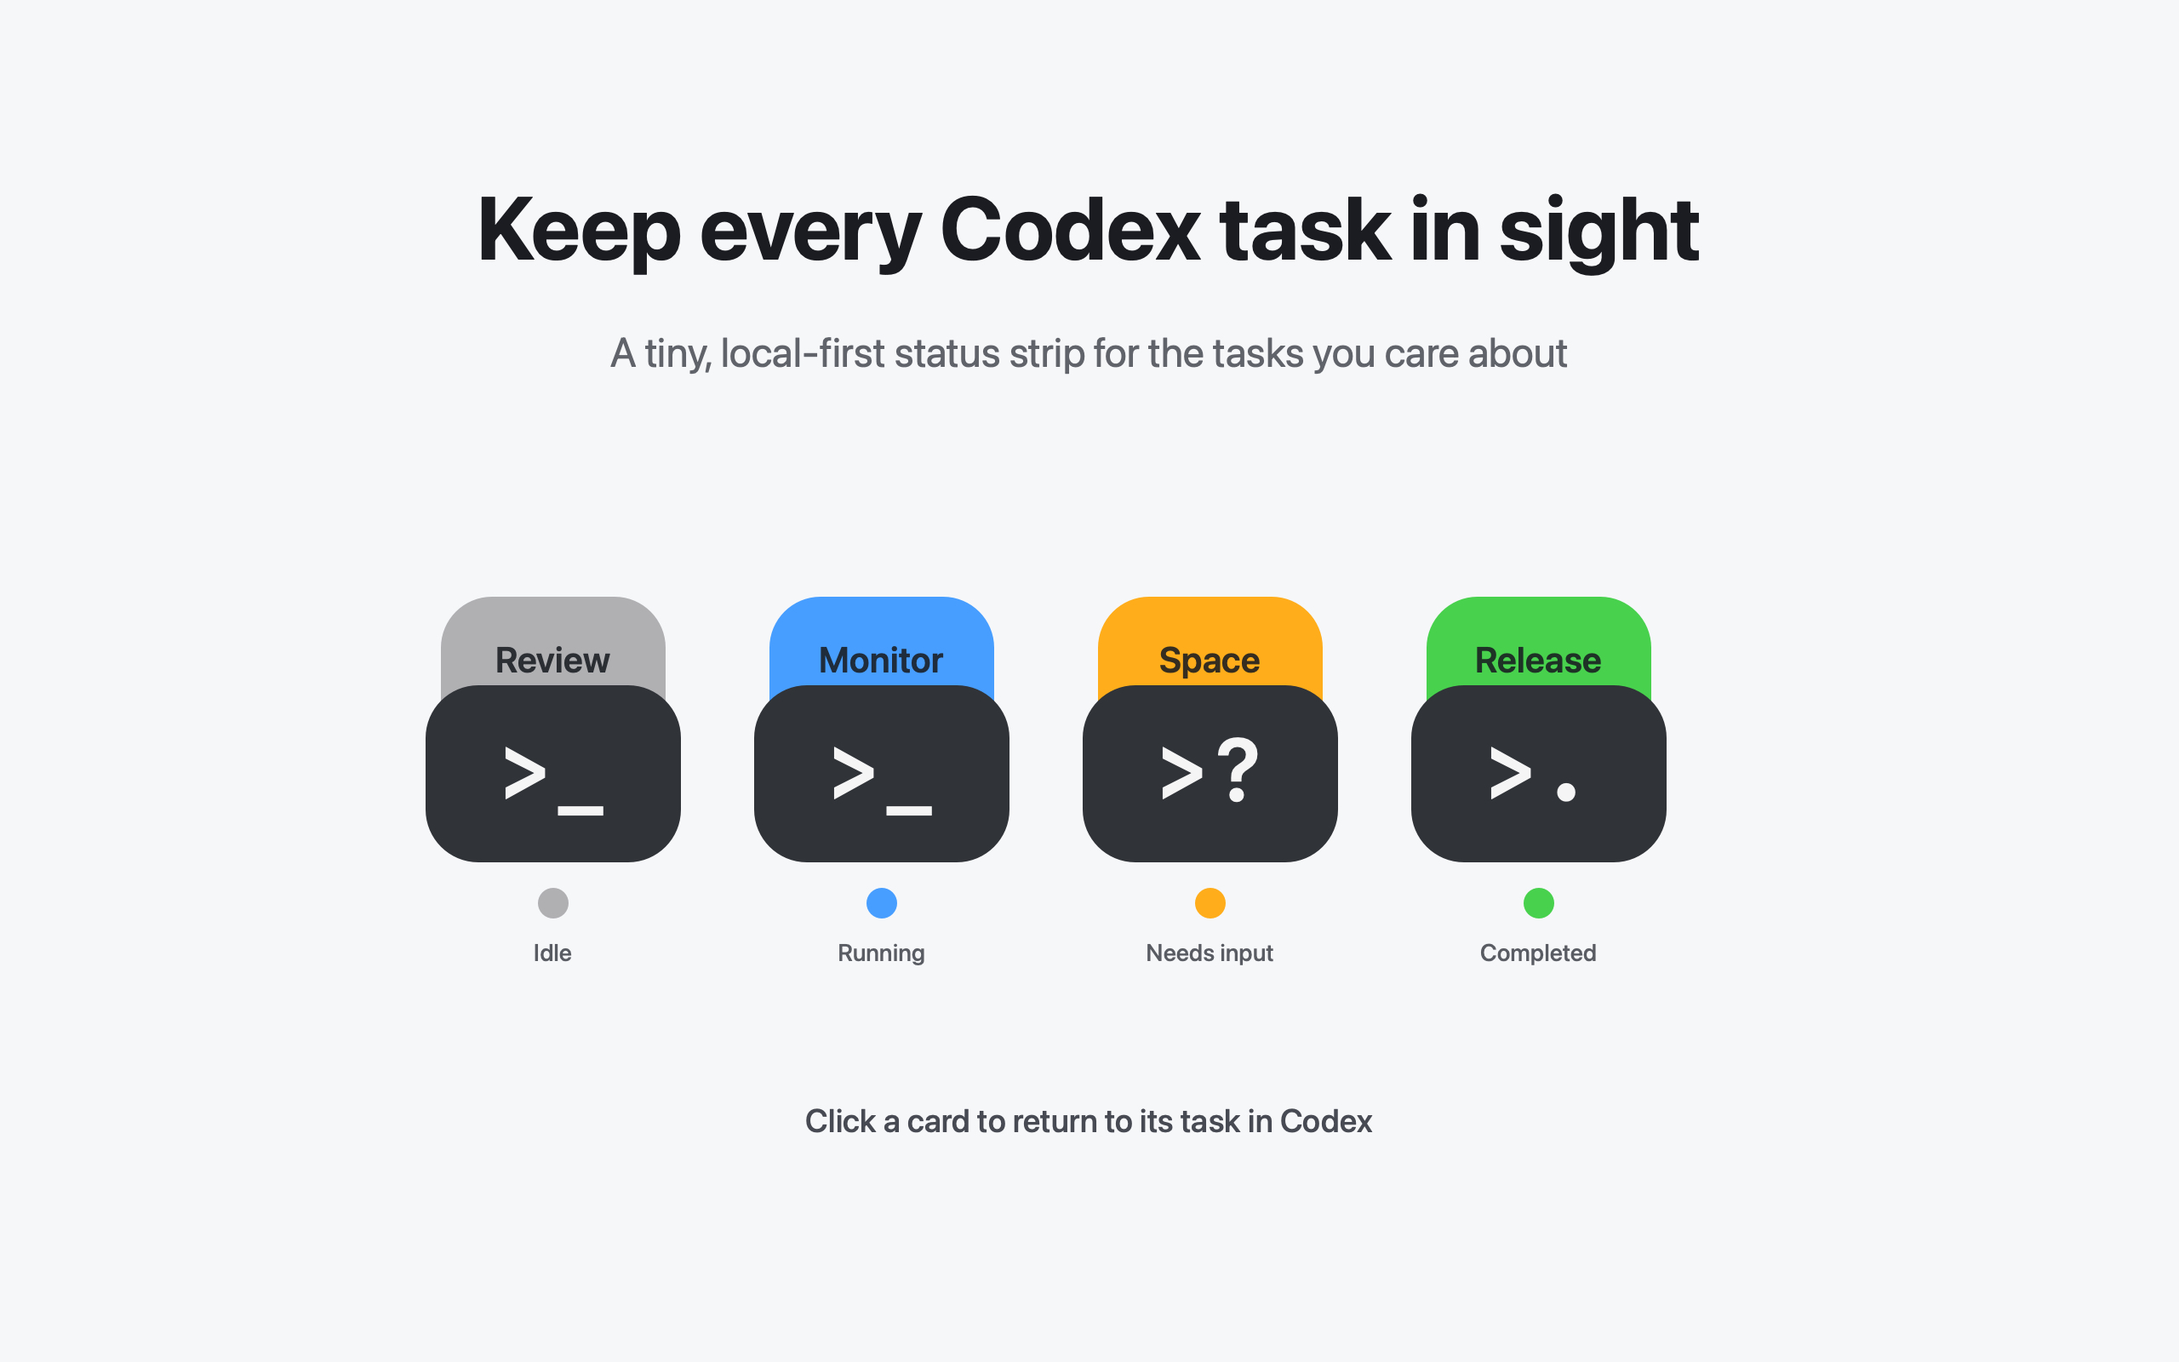
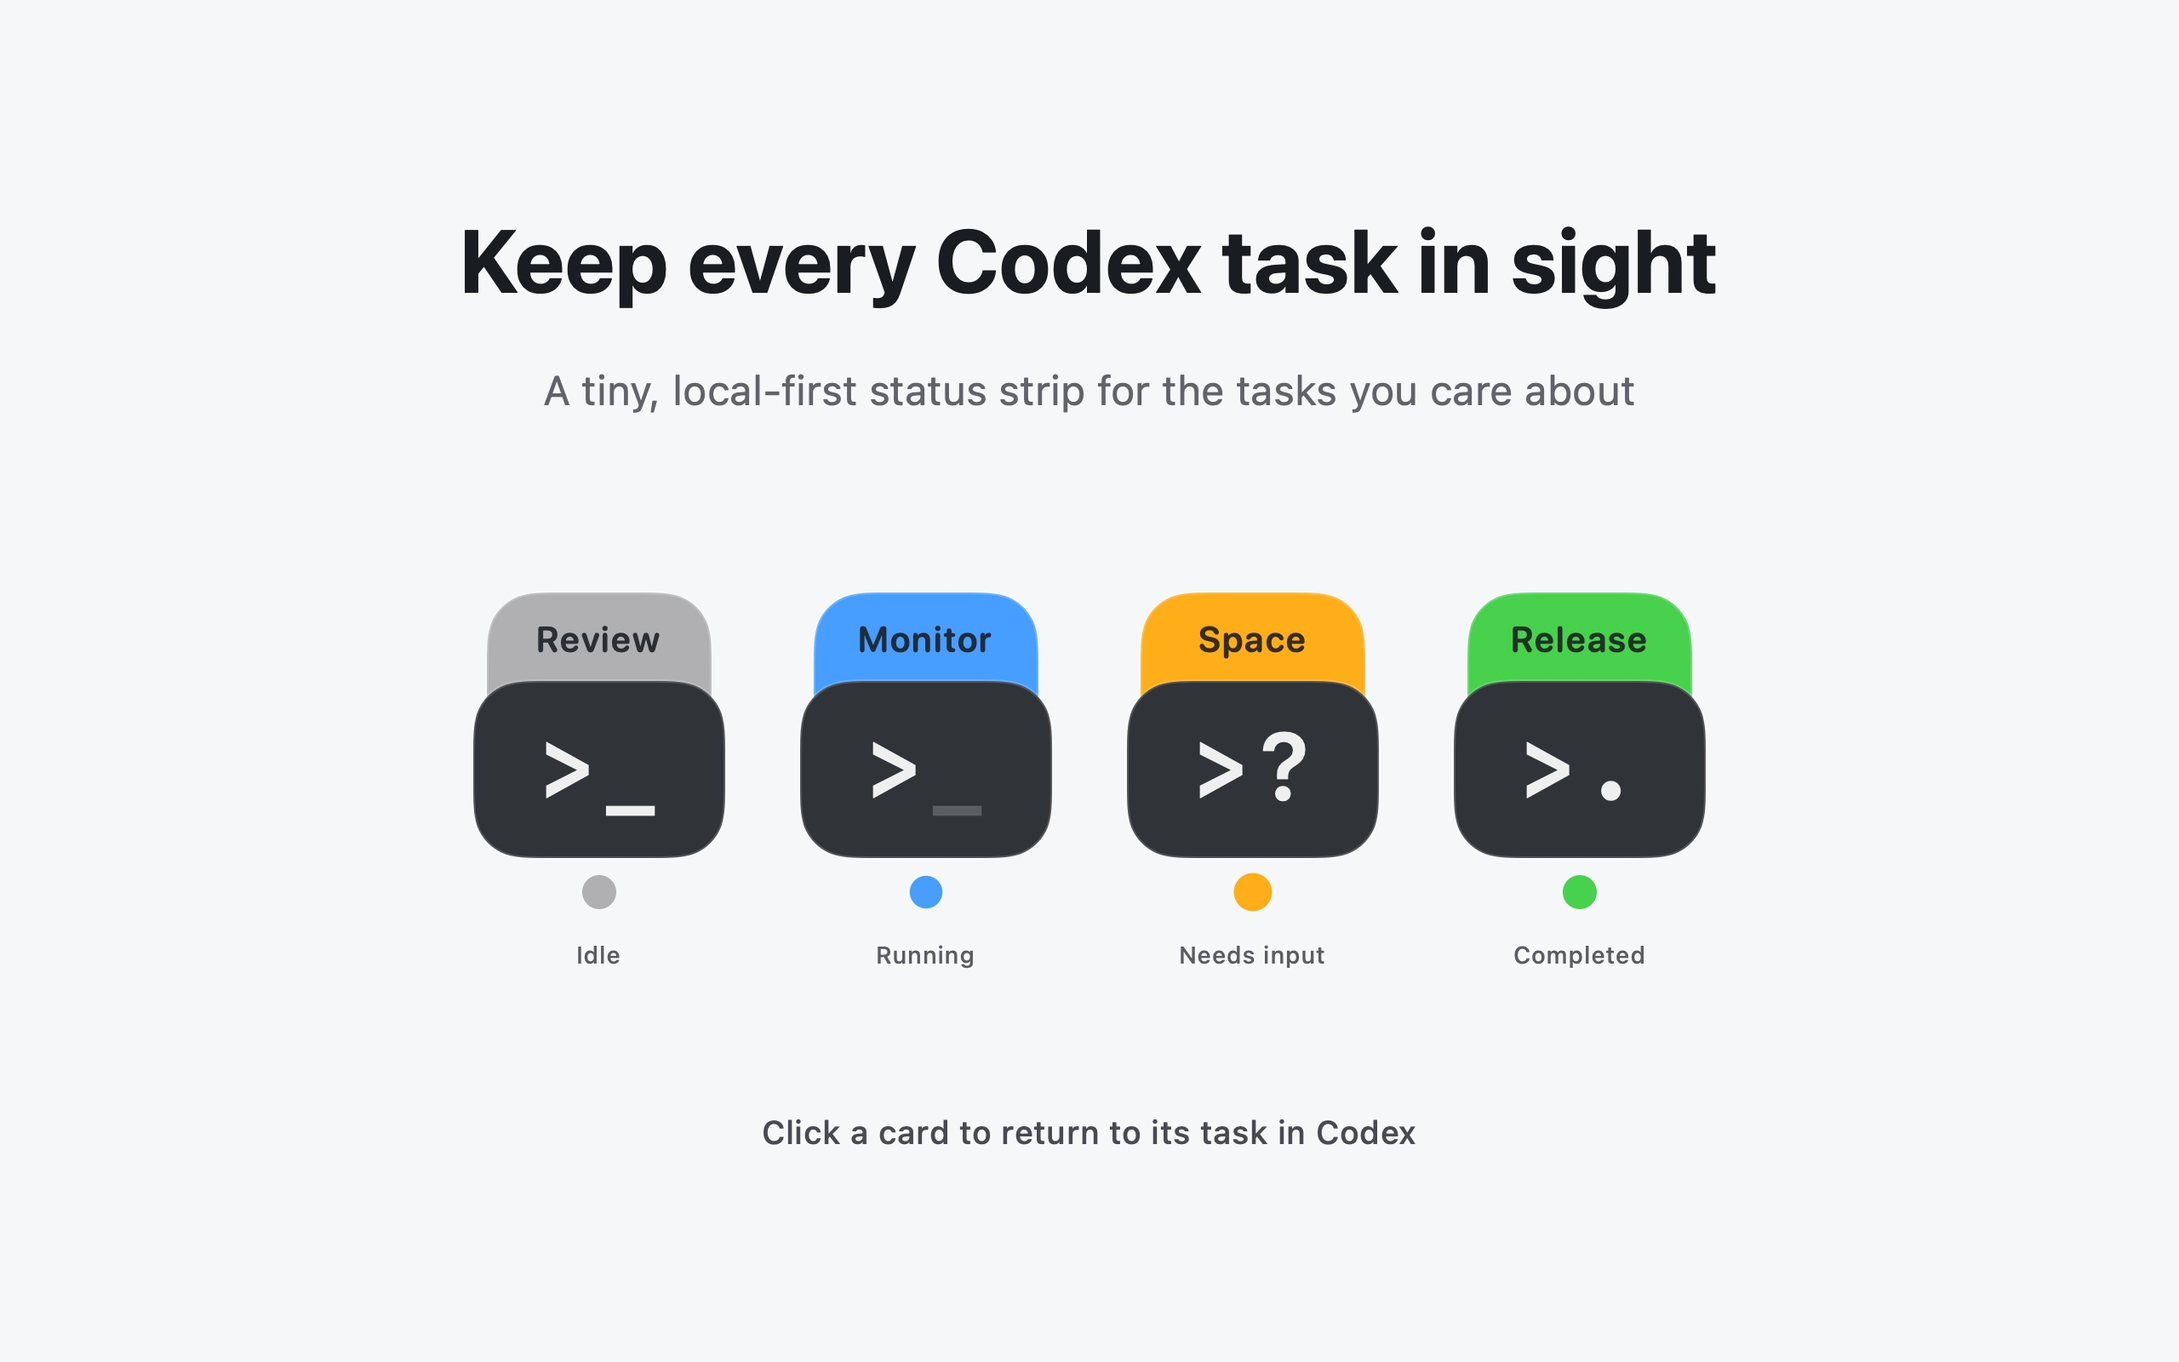
Render Store screenshot from shared task tiles

diff --git a/scripts/render_app_store_screenshot.swift b/scripts/render_app_store_screenshot.swift
@@ -1,120 +1,86 @@
 import AppKit
+import SwiftUI
 
-private struct StatusCard {
-    let name: String
-    let state: String
-    let color: NSColor
-    let cursor: String
+private struct StoreTask: Identifiable {
+    let id: String
+    let title: String
+    let state: SignalState
+    let stateLabel: String
 }
 
-private let cards = [
-    StatusCard(name: "Review", state: "Idle", color: NSColor(srgbRed: 0.69, green: 0.69, blue: 0.70, alpha: 1), cursor: "_"),
-    StatusCard(name: "Monitor", state: "Running", color: NSColor(srgbRed: 0.28, green: 0.62, blue: 1.0, alpha: 1), cursor: "_"),
-    StatusCard(name: "Space", state: "Needs input", color: NSColor(srgbRed: 1.0, green: 0.68, blue: 0.10, alpha: 1), cursor: "?"),
-    StatusCard(name: "Release", state: "Completed", color: NSColor(srgbRed: 0.28, green: 0.82, blue: 0.30, alpha: 1), cursor: "."),
-]
-
-private func drawCentered(_ string: String, in rect: NSRect, attributes: [NSAttributedString.Key: Any]) {
-    let size = string.size(withAttributes: attributes)
-    string.draw(
-        at: NSPoint(x: rect.midX - size.width / 2, y: rect.midY - size.height / 2),
-        withAttributes: attributes
-    )
-}
-
-private func roundedRect(_ rect: NSRect, radius: CGFloat, color: NSColor) {
-    color.setFill()
-    NSBezierPath(roundedRect: rect, xRadius: radius, yRadius: radius).fill()
-}
-
-private func drawCard(_ card: StatusCard, origin: NSPoint) {
-    let back = NSRect(x: origin.x + 18, y: origin.y + 92, width: 264, height: 312)
-    let front = NSRect(x: origin.x, y: origin.y + 92, width: 300, height: 208)
-
-    roundedRect(back, radius: 60, color: card.color)
-    roundedRect(front, radius: 62, color: NSColor(srgbRed: 0.19, green: 0.20, blue: 0.22, alpha: 1))
-
-    let nameAttributes: [NSAttributedString.Key: Any] = [
-        .font: NSFont.systemFont(ofSize: 42, weight: .semibold),
-        .foregroundColor: NSColor(srgbRed: 0.10, green: 0.11, blue: 0.13, alpha: 0.88),
+private struct AppStoreScreenshot: View {
+    private let tasks = [
+        StoreTask(id: "idle", title: "Review", state: .idle, stateLabel: "Idle"),
+        StoreTask(id: "running", title: "Monitor", state: .running, stateLabel: "Running"),
+        StoreTask(id: "approval", title: "Space", state: .needsInput, stateLabel: "Needs input"),
+        StoreTask(id: "complete", title: "Release", state: .ready, stateLabel: "Completed"),
     ]
-    drawCentered(card.name, in: NSRect(x: back.minX + 14, y: back.maxY - 102, width: back.width - 28, height: 58), attributes: nameAttributes)
 
-    let terminalAttributes: [NSAttributedString.Key: Any] = [
-        .font: NSFont.monospacedSystemFont(ofSize: 104, weight: .semibold),
-        .foregroundColor: NSColor(white: 0.96, alpha: 1),
-    ]
-    drawCentered(">\(card.cursor)", in: NSRect(x: front.minX, y: front.minY + 8, width: front.width, height: front.height), attributes: terminalAttributes)
+    var body: some View {
+        ZStack {
+            Color(red: 0.965, green: 0.969, blue: 0.976)
 
-    card.color.setFill()
-    NSBezierPath(ovalIn: NSRect(x: origin.x + 132, y: origin.y + 26, width: 36, height: 36)).fill()
+            VStack(spacing: 0) {
+                Text("Keep every Codex task in sight")
+                    .font(.system(size: 26, weight: .bold))
+                    .foregroundStyle(Color(red: 0.10, green: 0.11, blue: 0.13))
 
-    let stateAttributes: [NSAttributedString.Key: Any] = [
-        .font: NSFont.systemFont(ofSize: 28, weight: .medium),
-        .foregroundColor: NSColor(srgbRed: 0.35, green: 0.36, blue: 0.39, alpha: 1),
-    ]
-    drawCentered(card.state, in: NSRect(x: origin.x - 20, y: origin.y - 35, width: 340, height: 44), attributes: stateAttributes)
+                Text("A tiny, local-first status strip for the tasks you care about")
+                    .font(.system(size: 12, weight: .regular))
+                    .foregroundStyle(Color(red: 0.38, green: 0.39, blue: 0.42))
+                    .padding(.top, 16)
+
+                HStack(alignment: .top, spacing: 22) {
+                    ForEach(tasks) { item in
+                        VStack(spacing: 9) {
+                            TaskTile(
+                                task: TrackedTask(id: item.id, title: item.title, state: item.state),
+                                time: 0
+                            )
+
+                            Text(item.stateLabel)
+                                .font(.system(size: 7, weight: .medium))
+                                .foregroundStyle(Color(red: 0.35, green: 0.36, blue: 0.39))
+                        }
+                    }
+                }
+                .padding(.top, 52)
+
+                Text("Click a card to return to its task in Codex")
+                    .font(.system(size: 9.5, weight: .medium))
+                    .foregroundStyle(Color(red: 0.28, green: 0.29, blue: 0.32))
+                    .padding(.top, 42)
+            }
+        }
+        .frame(width: 640, height: 400)
+    }
 }
 
 @main
+@MainActor
 struct AppStoreScreenshotRenderer {
     static func main() throws {
-        let width = 2560
-        let height = 1600
-        guard let bitmap = NSBitmapImageRep(
-            bitmapDataPlanes: nil,
-            pixelsWide: width,
-            pixelsHigh: height,
-            bitsPerSample: 8,
-            samplesPerPixel: 4,
-            hasAlpha: true,
-            isPlanar: false,
-            colorSpaceName: .deviceRGB,
-            bytesPerRow: 0,
-            bitsPerPixel: 0
-        ) else { throw CocoaError(.fileWriteUnknown) }
-
-        NSGraphicsContext.saveGraphicsState()
-        guard let context = NSGraphicsContext(bitmapImageRep: bitmap) else { throw CocoaError(.fileWriteUnknown) }
-        NSGraphicsContext.current = context
-        context.imageInterpolation = .high
-
-        NSColor(srgbRed: 0.965, green: 0.969, blue: 0.976, alpha: 1).setFill()
-        NSRect(x: 0, y: 0, width: width, height: height).fill()
-
-        let titleAttributes: [NSAttributedString.Key: Any] = [
-            .font: NSFont.systemFont(ofSize: 104, weight: .bold),
-            .foregroundColor: NSColor(srgbRed: 0.10, green: 0.11, blue: 0.13, alpha: 1),
-        ]
-        drawCentered("Keep every Codex task in sight", in: NSRect(x: 180, y: 1260, width: 2200, height: 150), attributes: titleAttributes)
-
-        let subtitleAttributes: [NSAttributedString.Key: Any] = [
-            .font: NSFont.systemFont(ofSize: 48, weight: .regular),
-            .foregroundColor: NSColor(srgbRed: 0.38, green: 0.39, blue: 0.42, alpha: 1),
-        ]
-        drawCentered("A tiny, local-first status strip for the tasks you care about", in: NSRect(x: 240, y: 1150, width: 2080, height: 74), attributes: subtitleAttributes)
-
-        let startX: CGFloat = 500
-        let gap: CGFloat = 86
-        for (index, card) in cards.enumerated() {
-            drawCard(card, origin: NSPoint(x: startX + CGFloat(index) * (300 + gap), y: 495))
+        let renderer = ImageRenderer(content: AppStoreScreenshot())
+        renderer.scale = 4
+        guard let image = renderer.cgImage else {
+            throw CocoaError(.coderInvalidValue)
         }
 
-        let footerAttributes: [NSAttributedString.Key: Any] = [
-            .font: NSFont.systemFont(ofSize: 38, weight: .medium),
-            .foregroundColor: NSColor(srgbRed: 0.28, green: 0.29, blue: 0.32, alpha: 1),
-        ]
-        drawCentered("Click a card to return to its task in Codex", in: NSRect(x: 400, y: 255, width: 1760, height: 60), attributes: footerAttributes)
+        let root = URL(fileURLWithPath: FileManager.default.currentDirectoryPath)
+        let directory = root.appendingPathComponent("AppStore/Screenshots")
+        try FileManager.default.createDirectory(at: directory, withIntermediateDirectories: true)
 
-        NSGraphicsContext.restoreGraphicsState()
-
-        guard let data = bitmap.representation(using: .png, properties: [:]) else {
+        let bitmap = NSBitmapImageRep(cgImage: image)
+        guard let png = bitmap.representation(using: .png, properties: [:]),
+              let jpeg = bitmap.representation(using: .jpeg, properties: [.compressionFactor: 0.95]) else {
             throw CocoaError(.fileWriteUnknown)
         }
-        let root = URL(fileURLWithPath: FileManager.default.currentDirectoryPath)
-        let output = root.appendingPathComponent("AppStore/Screenshots/01-task-states-2560x1600.png")
-        try FileManager.default.createDirectory(at: output.deletingLastPathComponent(), withIntermediateDirectories: true)
-        try data.write(to: output)
-        print(output.path)
+
+        let pngURL = directory.appendingPathComponent("01-task-states-2560x1600.png")
+        let jpegURL = directory.appendingPathComponent("01-task-states-2560x1600.jpg")
+        try png.write(to: pngURL)
+        try jpeg.write(to: jpegURL)
+        print(pngURL.path)
+        print(jpegURL.path)
     }
 }

diff --git a/Sources/SignalMonitor/SignalView.swift b/Sources/SignalMonitor/SignalView.swift
@@ -51,99 +51,3 @@ struct SignalView: View {
             }
     }
 }
-
-struct TaskTile: View {
-    let task: TrackedTask
-    let time: TimeInterval
-
-    var body: some View {
-        VStack(spacing: 5) {
-            ZStack(alignment: .top) {
-                RoundedRectangle(cornerRadius: 15, style: .continuous)
-                    .fill(statusColor)
-                    .overlay(
-                        RoundedRectangle(cornerRadius: 15, style: .continuous)
-                            .stroke(.white.opacity(0.20), lineWidth: 1)
-                    )
-                    .frame(width: 66, height: 78)
-
-                Text(task.title)
-                    .font(.system(size: 10.5, weight: .semibold, design: .rounded))
-                    .foregroundStyle(Color(red: 0.10, green: 0.11, blue: 0.13).opacity(0.88))
-                    .lineLimit(1)
-                    .truncationMode(.tail)
-                    .frame(width: 57, height: 18)
-                    .offset(y: 5)
-
-                RoundedRectangle(cornerRadius: 15, style: .continuous)
-                    .fill(Color(red: 0.19, green: 0.20, blue: 0.22))
-                    .overlay(
-                        RoundedRectangle(cornerRadius: 15, style: .continuous)
-                            .stroke(.white.opacity(0.16), lineWidth: 1)
-                    )
-                    .frame(width: 74, height: 52)
-                    .offset(y: 26)
-
-                HStack(alignment: .lastTextBaseline, spacing: 1) {
-                    Text(">")
-                    Text(cursor).opacity(cursorOpacity)
-                }
-                .font(.system(size: 28, weight: .semibold, design: .monospaced))
-                .foregroundStyle(.white.opacity(0.92))
-                .offset(y: 34)
-            }
-            .frame(width: 74, height: 78)
-
-            Circle()
-                .fill(statusColor)
-                .frame(width: 10, height: 10)
-                .scaleEffect(dotScale)
-        }
-        .frame(width: 74)
-        .accessibilityElement(children: .ignore)
-        .accessibilityLabel("\(task.title): \(task.state.title)")
-        .accessibilityHint("Open this task in Codex")
-        .accessibilityAddTraits(.isButton)
-    }
-
-    private var cursor: String {
-        switch task.state {
-        case .needsInput: return "?"
-        case .ready: return "."
-        case .blocked: return "!"
-        case .offline, .idle, .running: return "_"
-        }
-    }
-
-    private var statusColor: Color {
-        switch task.state {
-        case .offline: return Color(red: 0.78, green: 0.78, blue: 0.79)
-        case .idle: return Color(red: 0.69, green: 0.69, blue: 0.70)
-        case .running: return Color(red: 0.28, green: 0.62, blue: 1.0)
-        case .needsInput: return Color(red: 1.0, green: 0.68, blue: 0.10)
-        case .ready: return Color(red: 0.28, green: 0.82, blue: 0.30)
-        case .blocked: return Color(red: 1.0, green: 0.68, blue: 0.10)
-        }
-    }
-
-    private var cursorOpacity: Double {
-        switch task.state {
-        case .running:
-            return sin(time * .pi * 1.6) > 0 ? 1 : 0.22
-        case .needsInput:
-            let phase = time.truncatingRemainder(dividingBy: 1.8)
-            return phase < 0.17 || (phase > 0.31 && phase < 0.48) ? 1 : 0.35
-        default:
-            return 1
-        }
-    }
-
-    private var dotScale: Double {
-        switch task.state {
-        case .running: return 0.92 + 0.08 * (0.5 + 0.5 * sin(time * .pi * 1.2))
-        case .needsInput: return cursorOpacity > 0.9 ? 1.12 : 0.94
-        default: return 1
-        }
-    }
-
-}

diff --git a/Sources/SignalMonitor/TaskTile.swift b/Sources/SignalMonitor/TaskTile.swift
@@ -1,0 +1,96 @@
+import SwiftUI
+
+struct TaskTile: View {
+    let task: TrackedTask
+    let time: TimeInterval
+
+    var body: some View {
+        VStack(spacing: 5) {
+            ZStack(alignment: .top) {
+                RoundedRectangle(cornerRadius: 15, style: .continuous)
+                    .fill(statusColor)
+                    .overlay(
+                        RoundedRectangle(cornerRadius: 15, style: .continuous)
+                            .stroke(.white.opacity(0.20), lineWidth: 1)
+                    )
+                    .frame(width: 66, height: 78)
+
+                Text(task.title)
+                    .font(.system(size: 10.5, weight: .semibold, design: .rounded))
+                    .foregroundStyle(Color(red: 0.10, green: 0.11, blue: 0.13).opacity(0.88))
+                    .lineLimit(1)
+                    .truncationMode(.tail)
+                    .frame(width: 57, height: 18)
+                    .offset(y: 5)
+
+                RoundedRectangle(cornerRadius: 15, style: .continuous)
+                    .fill(Color(red: 0.19, green: 0.20, blue: 0.22))
+                    .overlay(
+                        RoundedRectangle(cornerRadius: 15, style: .continuous)
+                            .stroke(.white.opacity(0.16), lineWidth: 1)
+                    )
+                    .frame(width: 74, height: 52)
+                    .offset(y: 26)
+
+                HStack(alignment: .lastTextBaseline, spacing: 1) {
+                    Text(">")
+                    Text(cursor).opacity(cursorOpacity)
+                }
+                .font(.system(size: 28, weight: .semibold, design: .monospaced))
+                .foregroundStyle(.white.opacity(0.92))
+                .offset(y: 34)
+            }
+            .frame(width: 74, height: 78)
+
+            Circle()
+                .fill(statusColor)
+                .frame(width: 10, height: 10)
+                .scaleEffect(dotScale)
+        }
+        .frame(width: 74)
+        .accessibilityElement(children: .ignore)
+        .accessibilityLabel("\(task.title): \(task.state.title)")
+        .accessibilityHint("Open this task in Codex")
+        .accessibilityAddTraits(.isButton)
+    }
+
+    private var cursor: String {
+        switch task.state {
+        case .needsInput: return "?"
+        case .ready: return "."
+        case .blocked: return "!"
+        case .offline, .idle, .running: return "_"
+        }
+    }
+
+    private var statusColor: Color {
+        switch task.state {
+        case .offline: return Color(red: 0.78, green: 0.78, blue: 0.79)
+        case .idle: return Color(red: 0.69, green: 0.69, blue: 0.70)
+        case .running: return Color(red: 0.28, green: 0.62, blue: 1.0)
+        case .needsInput: return Color(red: 1.0, green: 0.68, blue: 0.10)
+        case .ready: return Color(red: 0.28, green: 0.82, blue: 0.30)
+        case .blocked: return Color(red: 1.0, green: 0.68, blue: 0.10)
+        }
+    }
+
+    private var cursorOpacity: Double {
+        switch task.state {
+        case .running:
+            return sin(time * .pi * 1.6) > 0 ? 1 : 0.22
+        case .needsInput:
+            let phase = time.truncatingRemainder(dividingBy: 1.8)
+            return phase < 0.17 || (phase > 0.31 && phase < 0.48) ? 1 : 0.35
+        default:
+            return 1
+        }
+    }
+
+    private var dotScale: Double {
+        switch task.state {
+        case .running: return 0.92 + 0.08 * (0.5 + 0.5 * sin(time * .pi * 1.2))
+        case .needsInput: return cursorOpacity > 0.9 ? 1.12 : 0.94
+        default: return 1
+        }
+    }
+}
